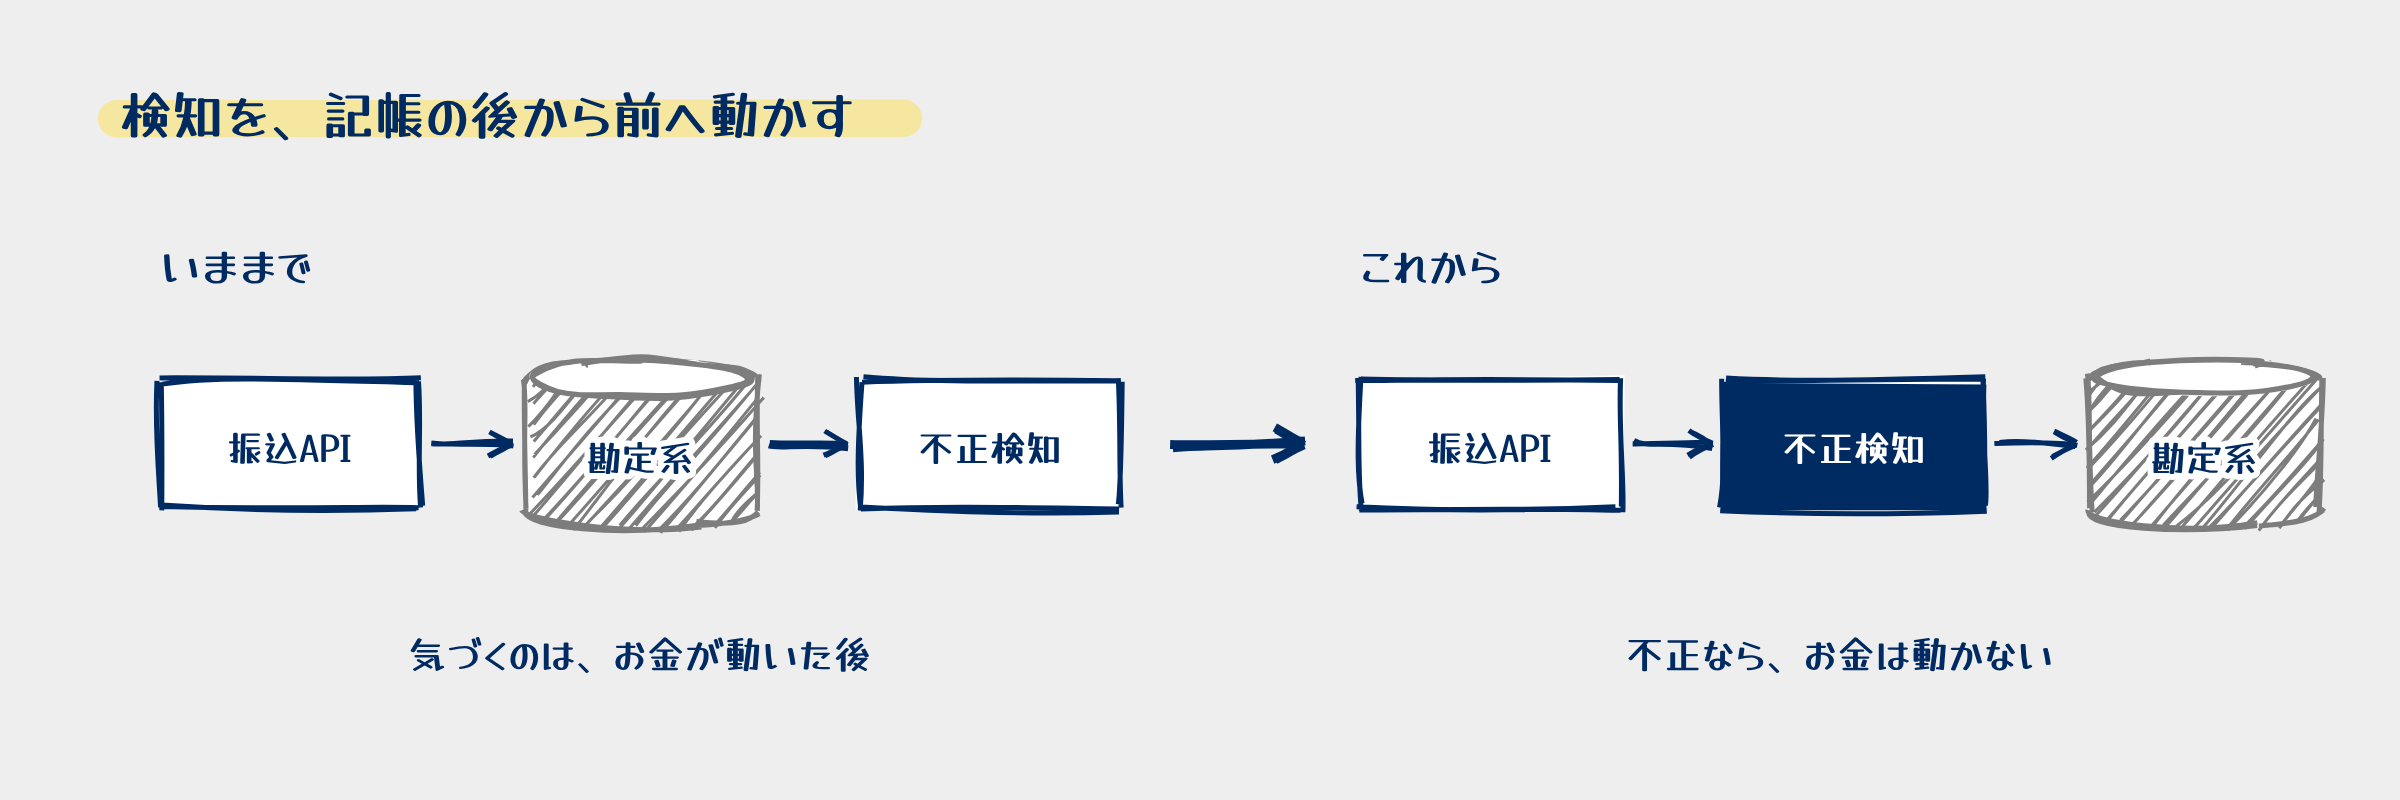
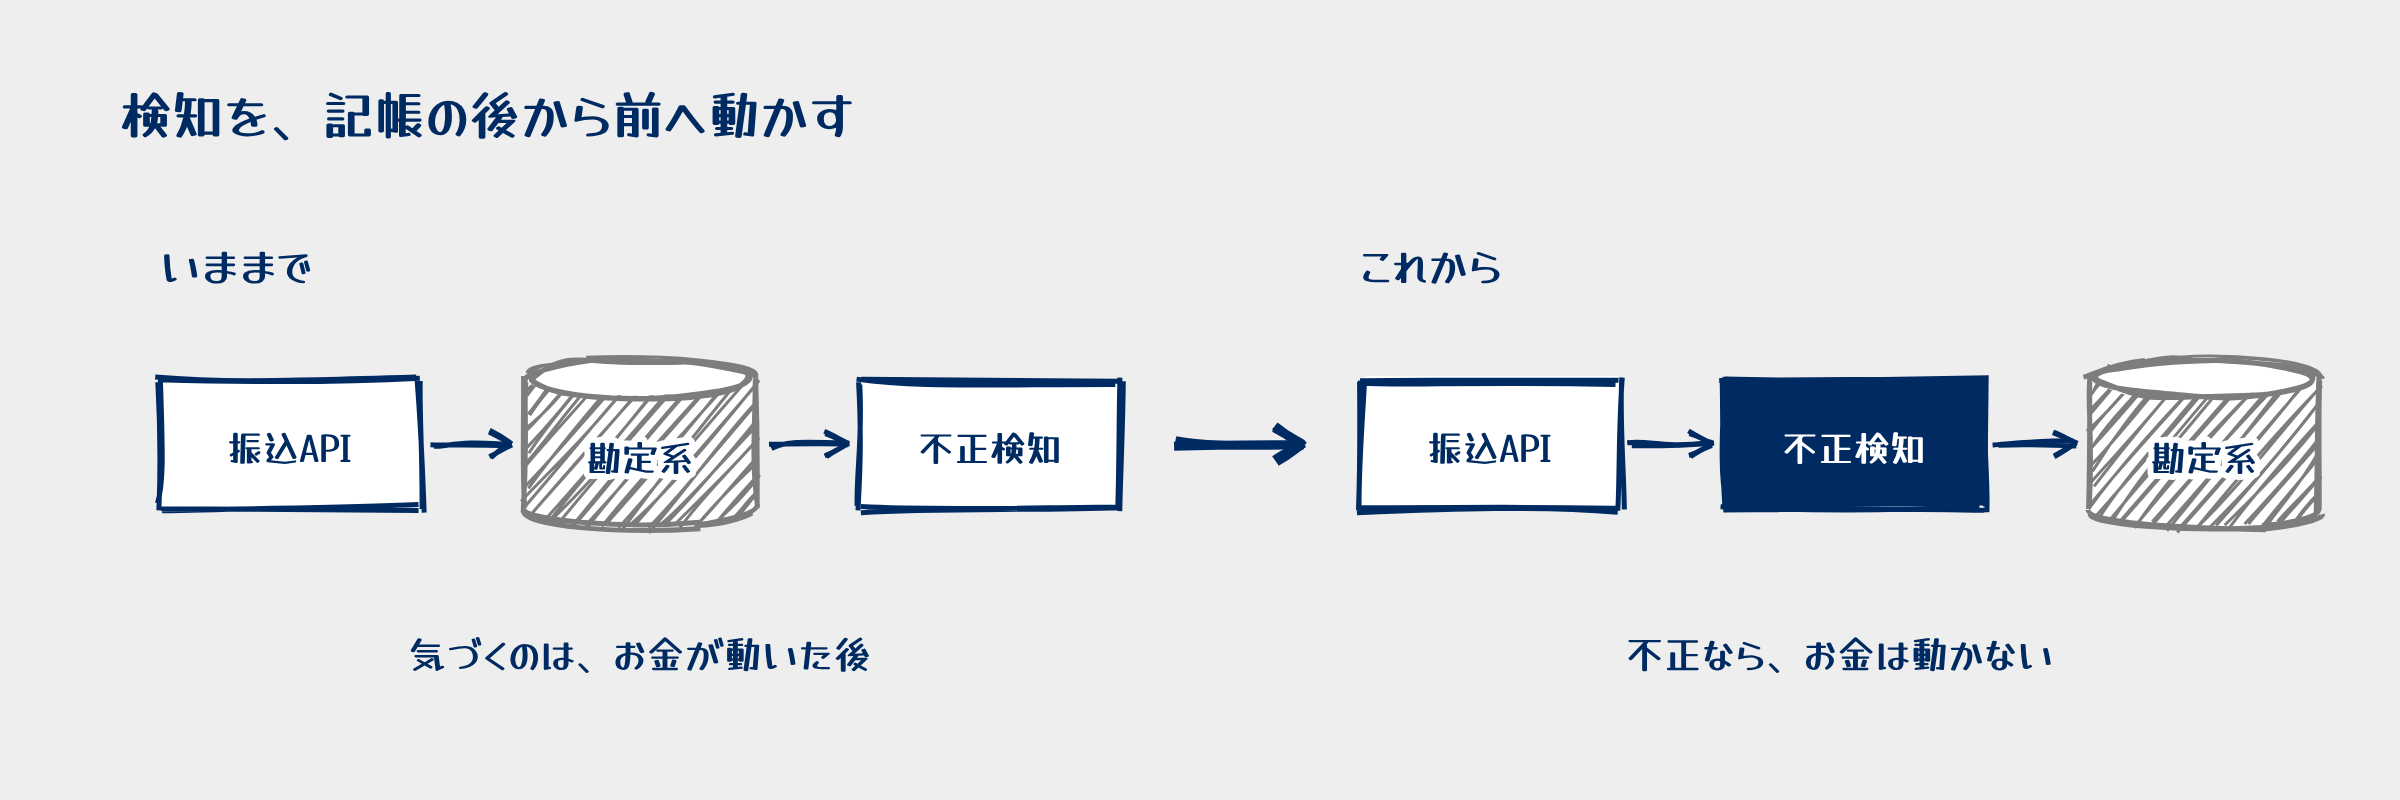
見出しの黄色マーカーをやめる
heading() は navy の文字だけを描く。marker 色は明かりの絵だけに残す。
SKILL.md・README の決まりを合わせ、examples の PNG を描き直した。

Claude-Session: https://claude.ai/code/session_01SpZQi2JTfzbZrTKjkXTGJg

diff --git a/zukai.js b/zukai.js
@@ -11,7 +11,7 @@
     sky: '#8fb4ec',      // 水色（差し色の斜線）
     navySoft: '#d6e2f2', // 淡い水色（レンズなどのベタ）
     grey: '#7d7d7d',     // 脇役の線（line-strong）
-    marker: '#f6e7a0',   // 薄い黄色（見出しのマーカー・明かり）
+    marker: '#f6e7a0',   // 薄い黄色（明かりだけ。見出しには使わない）
     onNavy: '#ffffff',   // ネイビーの上の文字
   };
   const FONT = "'Yusei Magic','Noto Sans JP','Noto Sans CJK JP',sans-serif";
@@ -64,14 +64,10 @@
       t.textContent = s;
       return add(t);
     };
-    // マーカーを引いた見出し（見出しと要の1語だけに使う）
+    // 見出し（navy の文字だけ。マーカーは引かない）
     const heading = (x, y, s, o) => {
       o = o || {};
-      const size = o.size || 26, w = tw(s, size);
-      const x0 = o.anchor === 'middle' ? x - w / 2 : x;
-      const m = add(rc.line(x0 - 2, y + 3, x0 + w + 2, y + 3, base({ stroke: C.marker, strokeWidth: size * 0.72, roughness: 0.6, disableMultiStroke: true })));
-      m.querySelectorAll('path').forEach(p => p.setAttribute('stroke-linecap', 'round'));
-      return T(x, y, s, { size, anchor: o.anchor, fill: o.fill });
+      return T(x, y, s, { size: o.size || 26, anchor: o.anchor, fill: o.fill });
     };
     // 札（白い板に名前）。x, y は中心
     const sign = (x, y, s, o) => {

diff --git a/SKILL.md b/SKILL.md
@@ -29,7 +29,7 @@ description: "図解を主、文章を従にして答えるためのスキル（
 | 型 | 1つ。2つ要るなら図を分ける |
 | 要素 | 9 |
 | 矢印 | 12 |
-| 主役（navy のベタ） | 1か所。ほかの強調はマーカー1語まで |
+| 主役（navy のベタ） | 1か所 |
 
 超えたら、全体図1枚と詳細図に分ける。文章1段落や表で足りるなら、図にしない。
 
@@ -120,7 +120,7 @@ description: "図解を主、文章を従にして答えるためのスキル（
 
 ## 4. 絵柄
 
-**色は navy・白・grey・sky。** 足りないときだけ薄い黄色（marker）。金・赤などは足さない。値は `zukai.js` に入っているので、部品を使えばそろう。 この表と `zukai.js` が正本。
+**色は navy・白・grey・sky。** 薄い黄色（marker）は明かりの絵だけ。金・赤などは足さない。値は `zukai.js` に入っているので、部品を使えばそろう。 この表と `zukai.js` が正本。
 
 | トークン | Light | Dark | 用途 |
 |---|---|---|---|
@@ -133,7 +133,7 @@ description: "図解を主、文章を従にして答えるためのスキル（
 | navy | #002b62 | #3d6fb8 | 主役の塗り・線・図の中の文字 |
 | navy-soft | #d6e2f2 | #1d2f4d | 淡い水色のベタ（画面・レンズ） |
 | sky | #8fb4ec | #5d8fd6（暫定） | 差し色の斜線 |
-| marker | #f6e7a0 | #5a5122（暫定） | 見出しのマーカー・明かり |
+| marker | #f6e7a0 | #5a5122（暫定） | 明かり（電球・ランプ）だけ。見出しや文字の下には引かない |
 | success / warning / danger | #1a7f37 / #9a6700 / #c42b1c | #56d364 / #e3b341 / #ff7b72 | 状態（語を添える。図の中では `mark`） |
 
 | 要素 | 決まり |
@@ -142,12 +142,12 @@ description: "図解を主、文章を従にして答えるためのスキル（
 | 主役 | navy のベタ＋白文字。人と物は navy の密な斜線 |
 | 差し色 | sky の斜線。**1枚の中で意味を1つに固定する**（新しい側、自動の部分、注目する範囲など） |
 | 脇役・データ | grey の線と斜線 |
-| 強調 | marker。見出しと、要の1語だけ |
+| 強調 | navy のベタ＋白文字。見出しは文字だけで、マーカー・下線・帯を引かない |
 | 文字 | Yusei Magic、navy。太字指定をしない。斜線の上では白い縁取り（`halo`） |
 | 地 | surface。影・グラデーション・角丸なし |
 
 - 手描きの図はライトの値で描く。ダークの sky と marker は暫定。
-- 資料の表題・見出し・要点は Yusei Magic。見出しには marker を引き、要点は navy のベタ＋白文字。
+- 資料の表題・見出し・要点は Yusei Magic。見出しは navy の文字だけ（マーカーを引かない）、要点は navy のベタ＋白文字。
 - 表・タグ・本文は手描き風にしない。Noto Sans JP 15px、数字・コードは等幅。角丸 4px、罫線 1px。絵文字・感嘆符は使わない。
 - 文字は 15px 以上。スライド（1920×1080）は 28px 以上、スマホで読むチャットは 20px 以上。
 - Yusei Magic が無い環境は Noto Sans JP で代用し、そう伝える。
@@ -250,7 +250,7 @@ flowchart LR
 | `state(x, y, 文字, { w, role })` / `dot(x, y)` / `diamond(x, y, w, h, 文字)` | 状態・始まりの点・分岐 |
 | `arrow([[x, y], …], { strokeWidth, head, strokeLineDash })` | 矢印。2点で直線、3点以上で曲線 |
 | `elbow([[x, y], …])` | 折れ線の矢印 |
-| `heading(x, y, 文字, { size, anchor })` / `sign(x, y, 文字)` / `T(x, y, 文字, { size, anchor, fill, halo })` | マーカー付きの見出し・札・文字 |
+| `heading(x, y, 文字, { size, anchor })` / `sign(x, y, 文字)` / `T(x, y, 文字, { size, anchor, fill, halo })` | 見出し（文字だけ）・札・文字 |
 | `L` `R` `O` `P` `PL` `PG` `RH` | 線・四角・円・パス・折れ線・多角形・白を敷いた四角 |
 
 **人と小道具**

diff --git a/README.md b/README.md
@@ -76,7 +76,7 @@ node scripts/render.mjs examples/sequence.html out.png
 | 地 / 白い面 | グレー `#eeeeee` / 白 `#ffffff` |
 | 脇役 | グレー `#7d7d7d` |
 | 差し色（斜線） | 水色 `#8fb4ec` |
-| 見出しのマーカー | 薄い黄色 `#f6e7a0` |
+| 明かり（電球など）だけ | 薄い黄色 `#f6e7a0` |
 
 書体は Yusei Magic。値の正本は [`SKILL.md`](SKILL.md) 4章と `zukai.js`。
 
